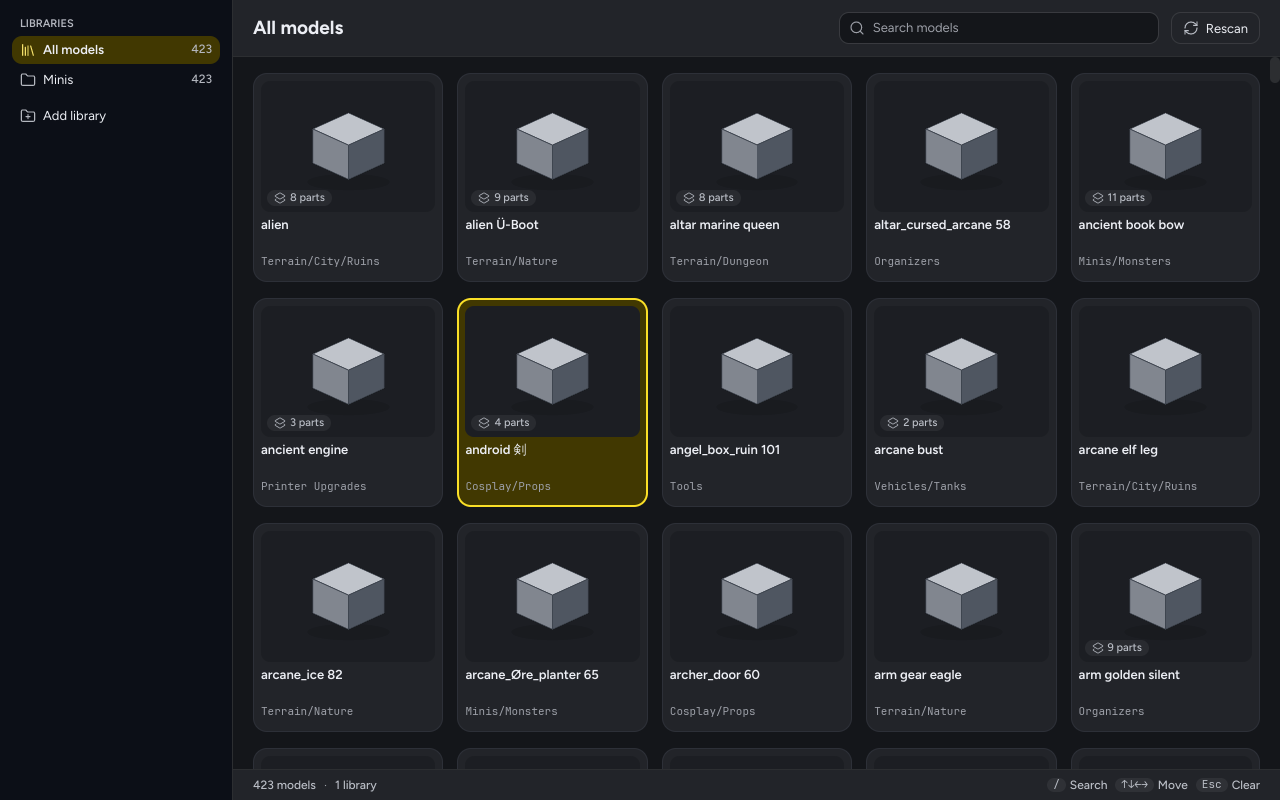
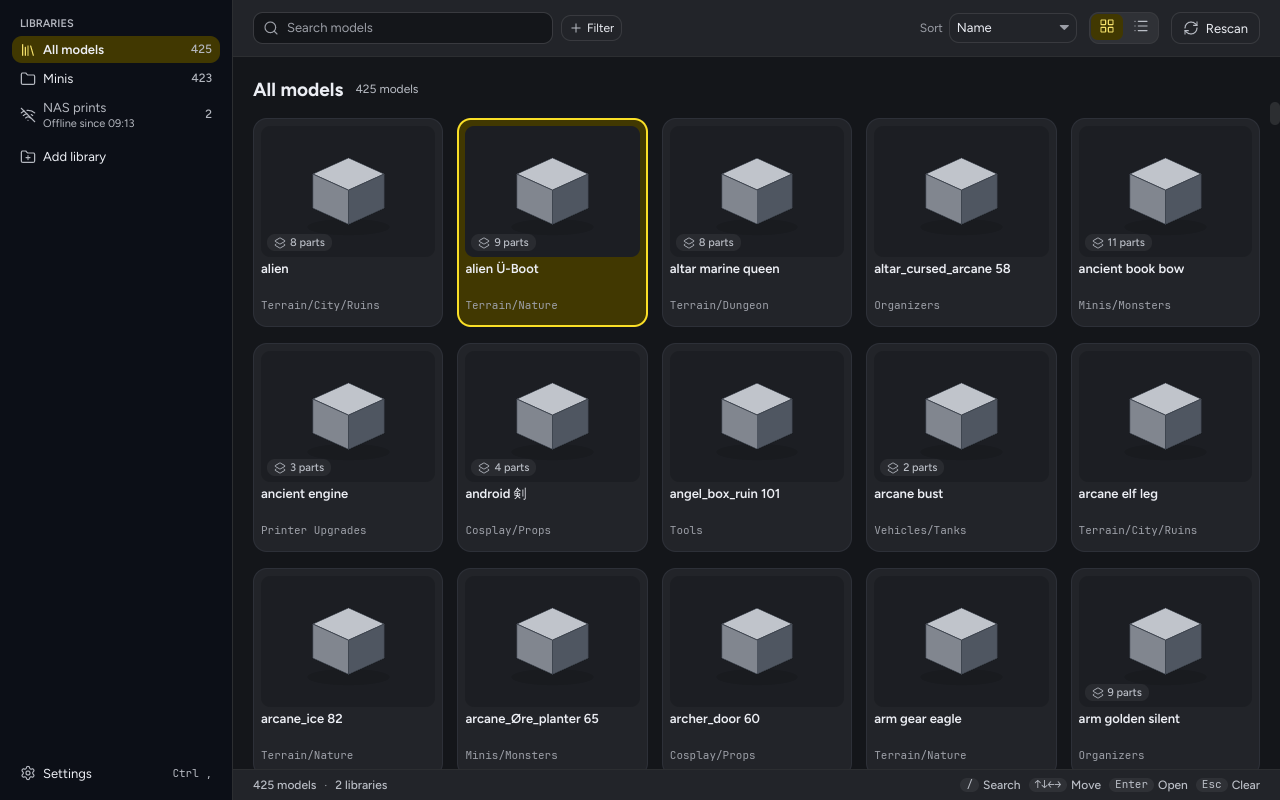
docs: part B screenshots, README shortcuts and settings location
Claude-Session: https://claude.ai/code/session_01KdzheSUaAcVZixznRyJd3E

diff --git a/docs/superpowers/plans/2026-11-17-printdex-model-view-settings.md b/docs/superpowers/plans/2026-11-17-printdex-model-view-settings.md
@@ -53,68 +53,68 @@ crates/printdex-app/src/view/widgets.rs   segmented control, chip, section label
 
 ### Task 1: Engine — model detail, library management, reachability, filters
 
-- [ ] Failing tests (`db/models.rs`, `db/search.rs`, `db/libraries.rs`, `tests/engine.rs`):
+- [x] Failing tests (`db/models.rs`, `db/search.rs`, `db/libraries.rs`, `tests/engine.rs`):
   - `model_detail_lists_parts_and_assets` — parts with format, size, rel_path sorted by path; assets likewise; missing files left out; `None` for an unknown id.
   - `search_filters_by_format_and_parts` — `formats: [ThreeMf]` returns only models with a present 3MF part; `multi_part: Some(true)` only models with ≥ 2 present parts; count matches.
   - `sort_by_recently_added` — newest `created_at` first, then name.
   - `remove_library_keeps_files` — library, models, parts and assets rows are gone (cascade), files on disk untouched, `LibraryRemoved` event sent.
   - `rename_library_changes_display_name` — blank names rejected.
   - `library_status_offline_when_root_missing` — `Online` for an existing folder, `Offline` when the root is gone or unreadable, without blocking longer than the timeout.
-- [ ] Implement `Db::model_detail`, `SearchFilter { formats, multi_part }`, `SortOrder { Name, RecentlyAdded }`, `search_models_in(library, input, &filter, sort, limit)` and `count_models(…)`; `Db::delete_library`, `Db::rename_library`; `Engine::model`, `remove_library`, `rename_library`, `library_status`. Add `EngineEvent::LibraryRemoved`/`LibraryRenamed`. Regenerate `.sqlx/`.
-- [ ] Commit `feat(core): model detail, library management, filters`.
+- [x] Implement `Db::model_detail`, `SearchFilter { formats, multi_part }`, `SortOrder { Name, RecentlyAdded }`, `search_models_in(library, input, &filter, sort, limit)` and `count_models(…)`; `Db::delete_library`, `Db::rename_library`; `Engine::model`, `remove_library`, `rename_library`, `library_status`. Add `EngineEvent::LibraryRemoved`/`LibraryRenamed`. Regenerate `.sqlx/`.
+- [x] Commit `feat(core): model detail, library management, filters`.
 
 ### Task 2: Settings file and screens
 
-- [ ] Failing tests in `settings.rs`: `defaults_when_missing`, `round_trips`, `settings_tolerate_bad_values` (unknown colour theme → default, wrong type → default, other fields kept), `save_is_atomic` (write temp + rename).
-- [ ] `Settings { color_theme, mode: System|Light|Dark, view: Grid|List, sort, translucency: Auto|Off, reduce_motion }`, serde + toml; loaded at boot, saved after each change (off the UI thread).
-- [ ] `Screen { Library, Model(ModelId), Settings }` in `app.rs`, with tests: `enter_opens_selected_model`, `escape_returns_to_library`, `ctrl_comma_opens_settings`. Keyboard: Enter / double-click opens, Esc goes back, Ctrl+, opens Settings. `--mode` from part A becomes a one-off override that is not saved.
-- [ ] Commit `feat(app): settings file and screen routing`.
+- [x] Failing tests in `settings.rs`: `defaults_when_missing`, `round_trips`, `settings_tolerate_bad_values` (unknown colour theme → default, wrong type → default, other fields kept), `save_is_atomic` (write temp + rename).
+- [x] `Settings { color_theme, mode: System|Light|Dark, view: Grid|List, sort, translucency: Auto|Off, reduce_motion }`, serde + toml; loaded at boot, saved after each change (off the UI thread).
+- [x] `Screen { Library, Model(ModelId), Settings }` in `app.rs`, with tests: `enter_opens_selected_model`, `escape_returns_to_library`, `ctrl_comma_opens_settings`. Keyboard: Enter / double-click opens, Esc goes back, Ctrl+, opens Settings. `--mode` from part A becomes a one-off override that is not saved.
+- [x] Commit `feat(app): settings file and screen routing`.
 
 ### Task 3: Colour themes and translucency
 
-- [ ] Generate `theme/presets.rs` from `.impeccable/design.json` `extensions.colorThemes` (a small script in `crates/printdex-app/tools/`, output committed). Seven presets, each with glass and solid sets in light and dark.
-- [ ] Failing tests: `seven_presets`, `every_preset_has_solid_twins` (solid tokens opaque), `glass_alphas_match_design` (rail 0.82, ground 0.86/0.84, …), `presets_never_change_status_or_material`, `accent_text_contrast_holds_in_every_preset` (accent-ink on accent-soft ≥ 4.5:1, solid set).
-- [ ] `Palette::new(theme, mode, Surface::Glass|Solid)`; `blur_supported()` decides from the OS (macOS; Linux when `XDG_CURRENT_DESKTOP` contains KDE). Window `transparent` + `blur` set at startup only when supported and translucency is Auto; the ground gets the glass fill, everything else as before.
-- [ ] Commit `feat(app): all colour themes, glass and solid sets`.
+- [x] Generate `theme/presets.rs` from `.impeccable/design.json` `extensions.colorThemes` (a small script in `crates/printdex-app/tools/`, output committed). Seven presets, each with glass and solid sets in light and dark.
+- [x] Failing tests: `seven_presets`, `every_preset_has_solid_twins` (solid tokens opaque), `glass_alphas_match_design` (rail 0.82, ground 0.86/0.84, …), `presets_never_change_status_or_material`, `accent_text_contrast_holds_in_every_preset` (accent-ink on accent-soft ≥ 4.5:1, solid set).
+- [x] `Palette::new(theme, mode, Surface::Glass|Solid)`; `blur_supported()` decides from the OS (macOS; Linux when `XDG_CURRENT_DESKTOP` contains KDE). Window `transparent` + `blur` set at startup only when supported and translucency is Auto; the ground gets the glass fill, everything else as before.
+- [x] Commit `feat(app): all colour themes, glass and solid sets`.
 
 ### Task 4: Model view
 
-- [ ] Failing tests on `update()`: `opening_model_loads_detail`, `detail_for_other_model_is_ignored` (stale load), `missing_model_shows_notice`, `selecting_part_updates_caption`.
-- [ ] View per mock: header with breadcrumb (library › folders), model name (display type), actions "Show in folder" (ghost) and "Open" (secondary, opens the selected part with the default app); main column with the large preview well (placeholder) and a caption for the selected part (file name · size · format), a **Parts** row of tiles (name, size in mono; selected tile ringed), and an **Other files** list (assets: images, PDFs, readmes) with "Open"; side column (384px) **Details**: library, folder (mono path), parts count, total size, added date, kind (folder / single file). Status bar: `Esc back to library`, `←→ part`, `O open`.
-- [ ] Commit `feat(app): model view`.
+- [x] Failing tests on `update()`: `opening_model_loads_detail`, `detail_for_other_model_is_ignored` (stale load), `missing_model_shows_notice`, `selecting_part_updates_caption`.
+- [x] View per mock: header with breadcrumb (library › folders), model name (display type), actions "Show in folder" (ghost) and "Open" (secondary, opens the selected part with the default app); main column with the large preview well (placeholder) and a caption for the selected part (file name · size · format), a **Parts** row of tiles (name, size in mono; selected tile ringed), and an **Other files** list (assets: images, PDFs, readmes) with "Open"; side column (384px) **Details**: library, folder (mono path), parts count, total size, added date, kind (folder / single file). Status bar: `Esc back to library`, `←→ part`, `O open`.
+- [x] Commit `feat(app): model view`.
 
 ### Task 5: List mode
 
-- [ ] Failing tests in `list.rs`: `visible_rows_for_list` (44px rows, header excluded), `scroll_target_for_list_row`.
-- [ ] Grid/list segmented control in the toolbar (persisted). List view per mock: one 14px pane, header row (group-label type), rows with small placeholder thumbnail, **Name** (600), **Folder** (mono, ink-3), **Parts**, **Added**; selected row Signal Wash; virtualized like the grid. Up/Down move by one row, Enter opens.
-- [ ] Commit `feat(app): list mode`.
+- [x] Failing tests in `list.rs`: `visible_rows_for_list` (44px rows, header excluded), `scroll_target_for_list_row`.
+- [x] Grid/list segmented control in the toolbar (persisted). List view per mock: one 14px pane, header row (group-label type), rows with small placeholder thumbnail, **Name** (600), **Folder** (mono, ink-3), **Parts**, **Added**; selected row Signal Wash; virtualized like the grid. Up/Down move by one row, Enter opens.
+- [x] Commit `feat(app): list mode`.
 
 ### Task 6: Filter chips and sort
 
-- [ ] Failing tests in `filters.rs`: `chips_to_filter`, `removing_last_chip_clears_filter`, `chips_combine_with_text`, `chips_survive_scope_change`.
-- [ ] "+ Filter" opens a small menu: **Format** (STL, 3MF, OBJ) and **Parts** (single file, multi-part). Active filters show as chips (grey key, value, remove icon) beside the search field; chips scale in per DESIGN.md. Sort pick list: Name, Recently added (persisted). Header line above the grid: "{library} · 212 of 1,284 models match" when filtered.
-- [ ] Commit `feat(app): filter chips and sort`.
+- [x] Failing tests in `filters.rs`: `chips_to_filter`, `removing_last_chip_clears_filter`, `chips_combine_with_text`, `chips_survive_scope_change`.
+- [x] "+ Filter" opens a small menu: **Format** (STL, 3MF, OBJ) and **Parts** (single file, multi-part). Active filters show as chips (grey key, value, remove icon) beside the search field; chips scale in per DESIGN.md. Sort pick list: Name, Recently added (persisted). Header line above the grid: "{library} · 212 of 1,284 models match" when filtered.
+- [x] Commit `feat(app): filter chips and sort`.
 
 ### Task 7: Settings screen
 
-- [ ] Failing tests: `remove_requires_confirmation`, `rename_library_updates_sidebar`, `changing_colour_theme_saves_settings`, `system_mode_follows_os`.
-- [ ] View per mock: 200px section list (**Libraries**, **Appearance**, **About**); Libraries table (name, location in mono, status badge Up to date / Scanning n / m / Offline since …, model count, Rescan or Retry, Remove with an inline confirm "Remove {name} from Printdex? Your files stay where they are."), "Add library" button; Appearance: colour theme chips with two-tone swatches (all seven), Theme segmented System / Light / Dark, Translucency Automatic / Off (with a note when the desktop cannot blur), Reduce motion switch; About: version, data folder, licence. Rows capped near 760px.
-- [ ] Commit `feat(app): settings screen`.
+- [x] Failing tests: `remove_requires_confirmation`, `rename_library_updates_sidebar`, `changing_colour_theme_saves_settings`, `system_mode_follows_os`.
+- [x] View per mock: 200px section list (**Libraries**, **Appearance**, **About**); Libraries table (name, location in mono, status badge Up to date / Scanning n / m / Offline since …, model count, Rescan or Retry, Remove with an inline confirm "Remove {name} from Printdex? Your files stay where they are."), "Add library" button; Appearance: colour theme chips with two-tone swatches (all seven), Theme segmented System / Light / Dark, Translucency Automatic / Off (with a note when the desktop cannot blur), Reduce motion switch; About: version, data folder, licence. Rows capped near 760px.
+- [x] Commit `feat(app): settings screen`.
 
 ### Task 8: Offline libraries
 
-- [ ] Failing tests: `offline_library_is_marked_and_kept`, `rescan_of_offline_library_shows_offline_not_error`, `retry_brings_library_back`.
-- [ ] Check every library's status at boot and before each rescan; offline rows in the sidebar use `on-rail-2` with "Offline since 14:02" and the slate offline badge; their models stay in the grid; Rescan becomes Retry.
-- [ ] Commit `feat(app): offline library state`.
+- [x] Failing tests: `offline_library_is_marked_and_kept`, `rescan_of_offline_library_shows_offline_not_error`, `retry_brings_library_back`.
+- [x] Check every library's status at boot and before each rescan; offline rows in the sidebar use `on-rail-2` with "Offline since 14:02" and the slate offline badge; their models stay in the grid; Rescan becomes Retry.
+- [x] Commit `feat(app): offline library state`.
 
 ### Task 9: Motion
 
-- [ ] Failing tests in `motion.rs`: `durations_match_design` (90/160/260/720 ms), `ease_out_curve_endpoints`, `reduce_motion_disables_movement_keeps_fades`, `hover_lift_settles`, `only_animating_requests_frames`.
-- [ ] Selection ring and fill cross-fade (160 ms), hover lift of the placeholder model by 4px with the contact shadow shrinking (160 ms), press sink 1px (90 ms), chip scale-in from 0.92 (180 ms), part-tile selection fade. `window::frames()` subscription only while an animation runs. Reduce motion: no lift, sink or scale; fades stay.
-- [ ] Commit `feat(app): motion`.
+- [x] Failing tests in `motion.rs`: `durations_match_design` (90/160/260/720 ms), `ease_out_curve_endpoints`, `reduce_motion_disables_movement_keeps_fades`, `hover_lift_settles`, `only_animating_requests_frames`.
+- [x] Selection ring and fill cross-fade (160 ms), hover lift of the placeholder model by 4px with the contact shadow shrinking (160 ms), press sink 1px (90 ms), chip scale-in from 0.92 (180 ms), part-tile selection fade. `window::frames()` subscription only while an animation runs. Reduce motion: no lift, sink or scale; fades stay.
+- [x] Commit `feat(app): motion`.
 
 ### Task 10: Run, screenshot, measure, document
 
-- [ ] Screenshots under Xvfb: model view, list mode with chips, settings (light and dark, two colour themes), offline library.
-- [ ] Re-measure start to browsable grid on the 100k-part bench library (part A: ~240 ms).
-- [ ] README: keyboard shortcuts, settings file location. File the Windows Mica issue (milestone 4). Close the plan's task issues from the PR.
+- [x] Screenshots under Xvfb: model view, list mode with chips, settings (light and dark, two colour themes), offline library.
+- [x] Re-measure start to browsable grid on the 100k-part bench library (part A: ~240 ms).
+- [x] README: keyboard shortcuts, settings file location. File the Windows Mica issue (milestone 4). Close the plan's task issues from the PR.

diff --git a/README.md b/README.md
@@ -1,9 +1,11 @@
 # printdex
 Your STL library, organized. Local-first, blazing fast, built in Rust.
 
+![Library grid](docs/screenshots/library-grid-light.png)
+
 ## Status
 
-Early development. The desktop app shows your libraries as a searchable grid; previews, the model view, tags and the print log come in later milestones (see the issues).
+Early development. The desktop app shows your libraries as a searchable grid or list, opens a model to show its parts and other files, filters by format and part count, and has Settings for libraries and appearance (seven colour themes, light/dark/system, translucency, reduce motion). Real previews, tags, collections and the print log come in later milestones (see the issues).
 
 ## Run it
 
@@ -13,14 +15,33 @@ Needs Rust (stable, 1.94 or newer).
 # Desktop app
 cargo run --release -p printdex-app
 
-# Use a separate data folder, or force light/dark
-cargo run --release -p printdex-app -- --data-dir /tmp/printdex-test --mode dark
+# Separate data and settings folders, or light/dark for this run only
+cargo run --release -p printdex-app -- --data-dir /tmp/printdex-test --config-dir /tmp/printdex-test --mode dark
 
 # Command line: scan a folder, search, stats
 cargo run --release -p printdex-cli -- scan ~/Models
 cargo run --release -p printdex-cli -- search dragon
 ```
 
-In the app: **Add library** picks a folder and scans it. `/` or Ctrl+F jumps to search, arrow keys move through the grid, Esc clears the search.
+In the app, **Add library** picks a folder and scans it.
 
-Printdex never changes, moves or uploads your model files. Its database lives in your OS data folder (`~/.local/share/printdex` on Linux).
+| Key | Does |
+|---|---|
+| `/` or Ctrl+F | Search |
+| Arrow keys, Home, End | Move through the grid or list |
+| Enter or double-click | Open the selected model |
+| ← → (in a model) | Pick a part |
+| O (in a model) | Open the part with your default app |
+| Esc | Back to the library, close the filter menu, clear the search, then the selection |
+| Ctrl+, | Settings |
+
+Printdex never changes, moves or uploads your model files. **Show in folder** and **Open** hand a file to your file manager or default app; **Remove library** forgets Printdex's records and leaves the folder alone. A library on an unplugged drive or unmounted NAS stays browsable and shows as offline until it is back.
+
+Where things live:
+
+| | Linux | macOS | Windows |
+|---|---|---|---|
+| Database | `~/.local/share/printdex` | `~/Library/Application Support/Printdex` | `%APPDATA%\Printdex\data` |
+| `settings.toml` | `~/.config/printdex` | `~/Library/Application Support/Printdex` | `%APPDATA%\Printdex\config` |
+
+Translucent glass needs a desktop that can blur behind windows (macOS, KDE Plasma). Elsewhere, and with Translucency set to Off, Printdex uses solid colours.
